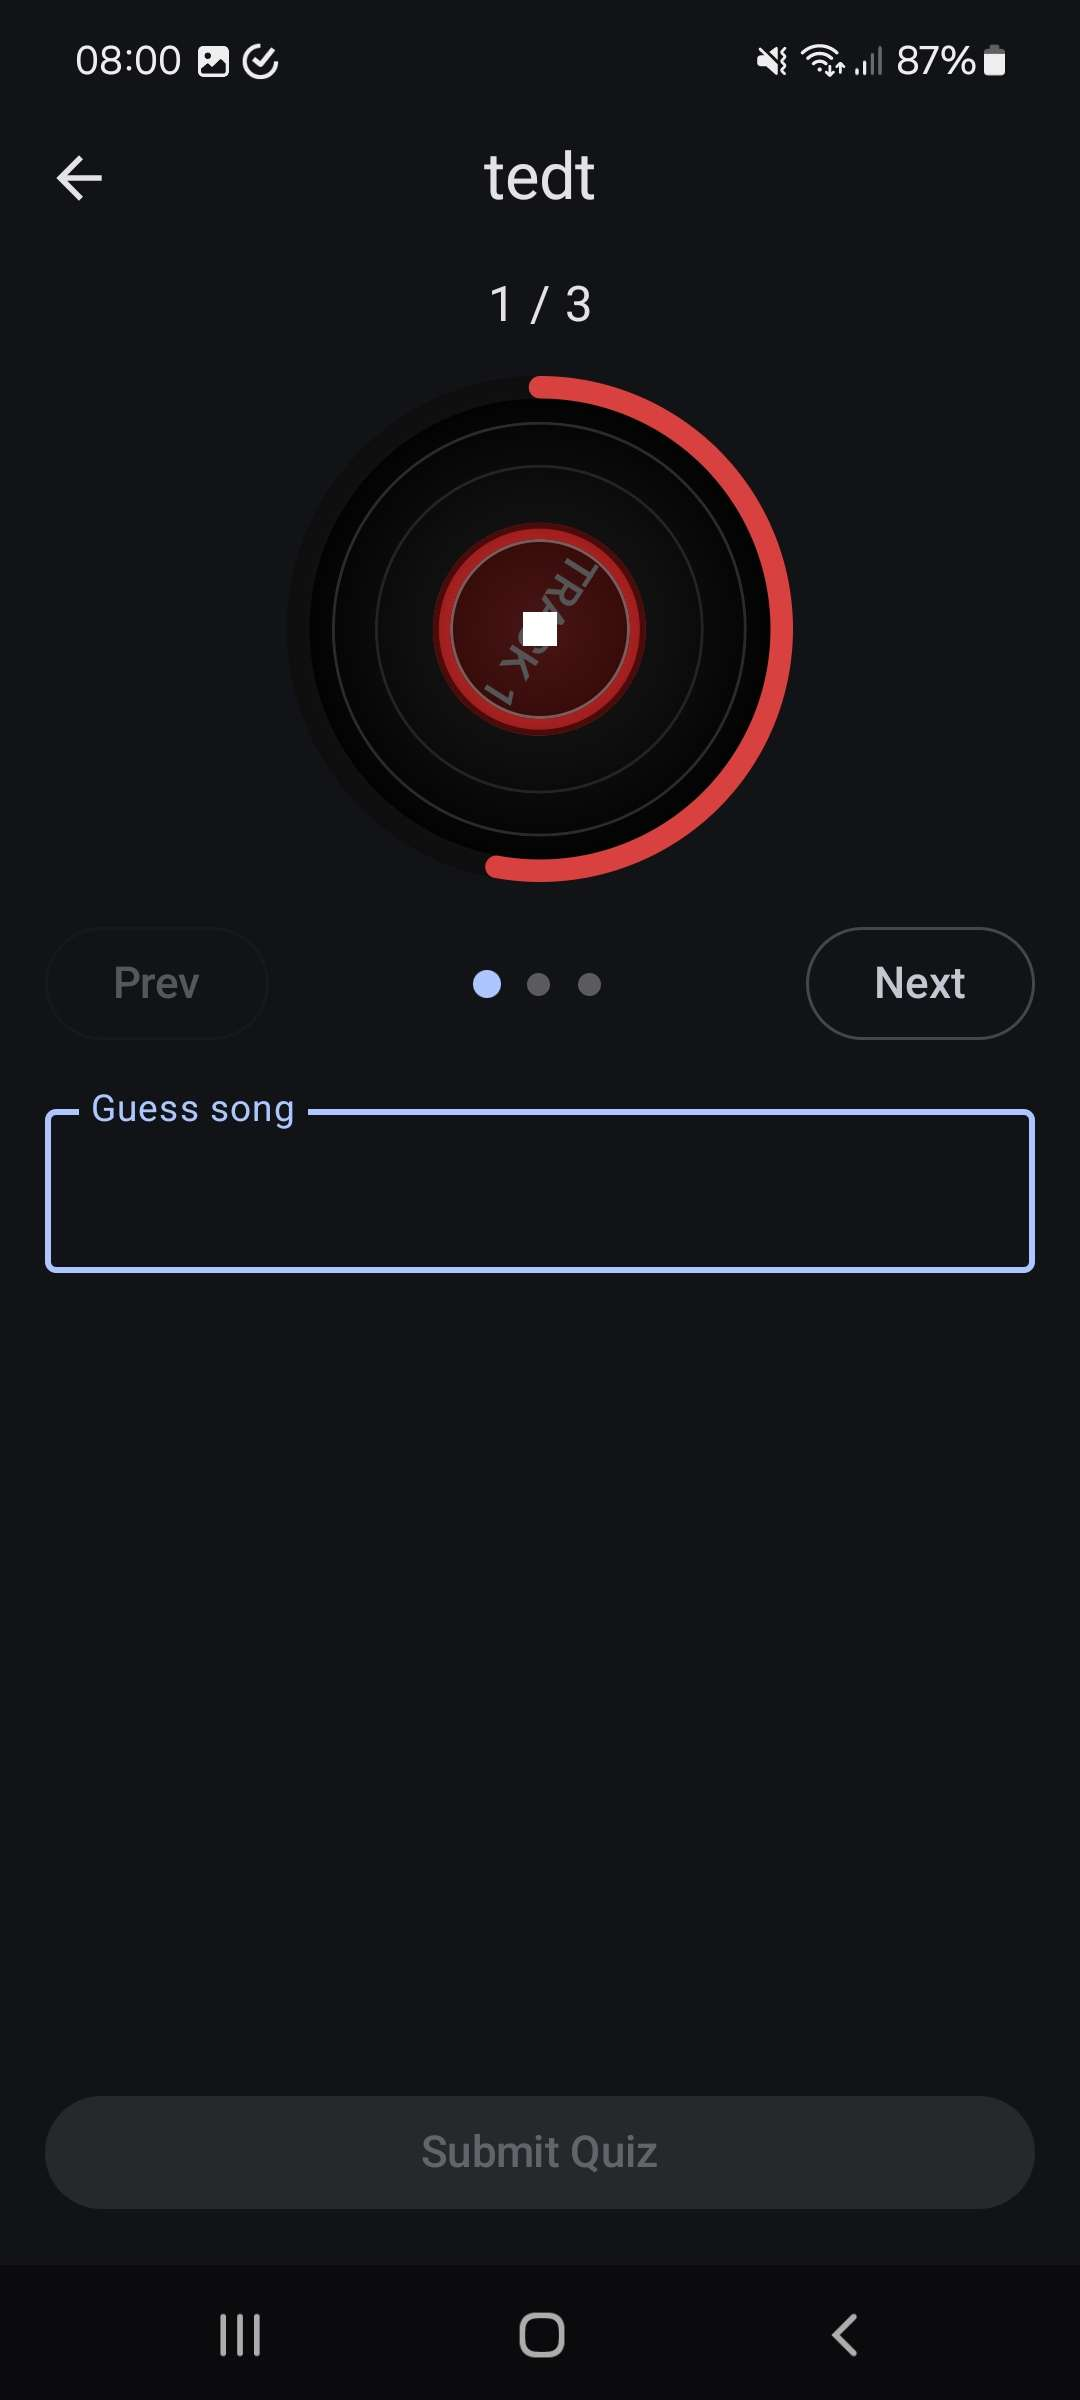
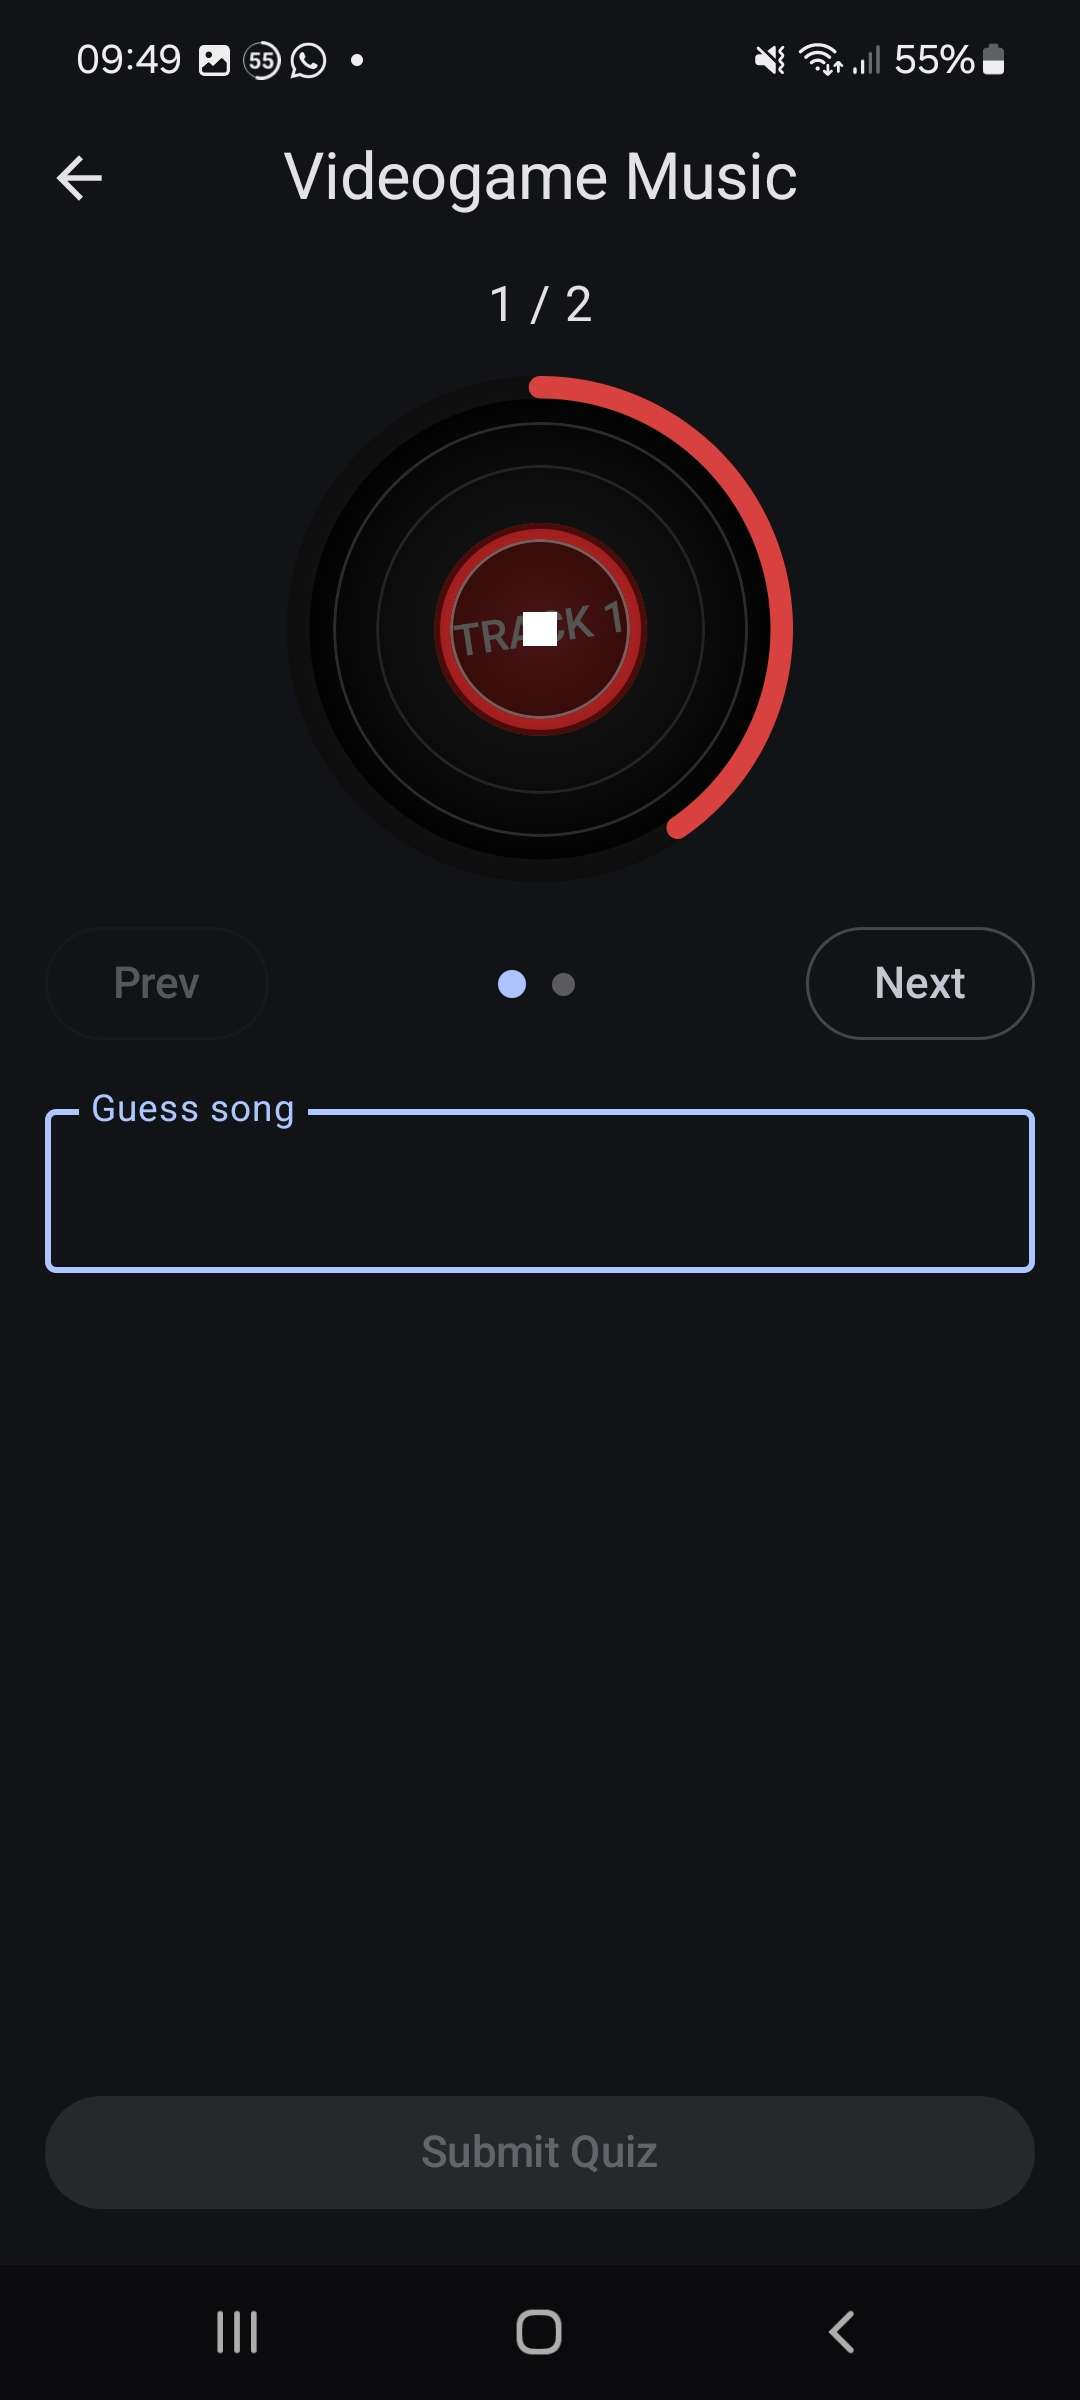
Adding new css, changing musicguesser images, fixing small erros

diff --git a/src/content/projects/budget-buddy/budget-buddy.md b/src/content/projects/budget-buddy/budget-buddy.md
@@ -10,7 +10,7 @@ featured: true
 
 ## First semester
 
-Part of the first semester in the Mobile Masterclass was to program your own project, which you were allowed to define yourself. I had recently become more familiar with finances and was therefore looking around for digital household accounts. After a little searching, however, I couldn't find any that made it easy to enter data on both mobile and desktop devices. After learning the multi-platform language [[21.11 Ionic|Ionic]] in class, I had the opportunity to create my own household account. Since creating a household budget book is a major undertaking, the initial focus was on implementing basic functions such as creating accounts and performing transactions on these accounts.
+Part of the first semester in the Mobile Masterclass was to program your own project, which you were allowed to define yourself. I had recently become more familiar with finances and was therefore looking around for digital household accounts. After a little searching, however, I couldn't find any that made it easy to enter data on both mobile and desktop devices. After learning the multi-platform language Ionic in class, I had the opportunity to create my own household account. Since creating a household budget book is a major undertaking, the initial focus was on implementing basic functions such as creating accounts and performing transactions on these accounts.
 
 ### Features
 

diff --git a/src/content/projects/musicguesser/musicguesser.md b/src/content/projects/musicguesser/musicguesser.md
@@ -8,7 +8,7 @@ heroImage: './musicguesser_hero.jpg'
 featured: false
 ---
 
-In the third semester of the Mobile Masterclass, we are free to choose how we want to earn our credits alongside the semester project. To earn my credits this semester, I created my own Kotlin project: a MusicGuesser. You can create quizzes using local MP3s and then guess the song title from a short snippet of the song in a quiz. 
+In the third semester of the Mobile Masterclass, we are free to choose how we want to earn our credits alongside the semester project. To earn my credits this semester, I created my own Kotlin project: a MusicGuesser. You can create quizzes using local MP3s and then guess the song title from a short snippet of the song in a quiz.
 
 ## Features
 

diff --git a/src/content/projects/tierpatenschaften/smart_contract_workshop.md b/src/content/projects/tierpatenschaften/smart_contract_workshop.md
@@ -63,8 +63,8 @@ Specific animals are displayed in a card view I created, along with information 
 
 If you want to adopt an animal, you first have to connect a crypto wallet, then you can confirm a transaction via the crypto wallet using the Adopt button. After a short wait, you will see that the animal has been adopted, and if you look in the wallet, you will see an NFT of the adopted animal along with a short description and a picture.
 
-![Appbild](./tierpatenschaften_04.png)
-![Appbild](./tierpatenschaften_05.png)
+| ![Appbild](./tierpatenschaften_04.png) | ![Appbild](./tierpatenschaften_05.png) |
+| - | - |
 
 ## Personal experiences and conclusion
 

diff --git a/src/content/projects/drunken-rat-tavern/drunken-rat-tavern.md b/src/content/projects/drunken-rat-tavern/drunken-rat-tavern.md
@@ -5,7 +5,7 @@ technology: ["HTML", "CSS", "JS", "JQuery", "PHP", "MariaDB"]
 description: "Print2Mobile Project utilizing QR-codes which lead to a fantasy themed chat app"
 pubDate: '2024-10-16'
 heroImage: './drunken_rat_tavern_logo.png'
-featured: true
+featured: false
 ---
 
 ## Project idea
